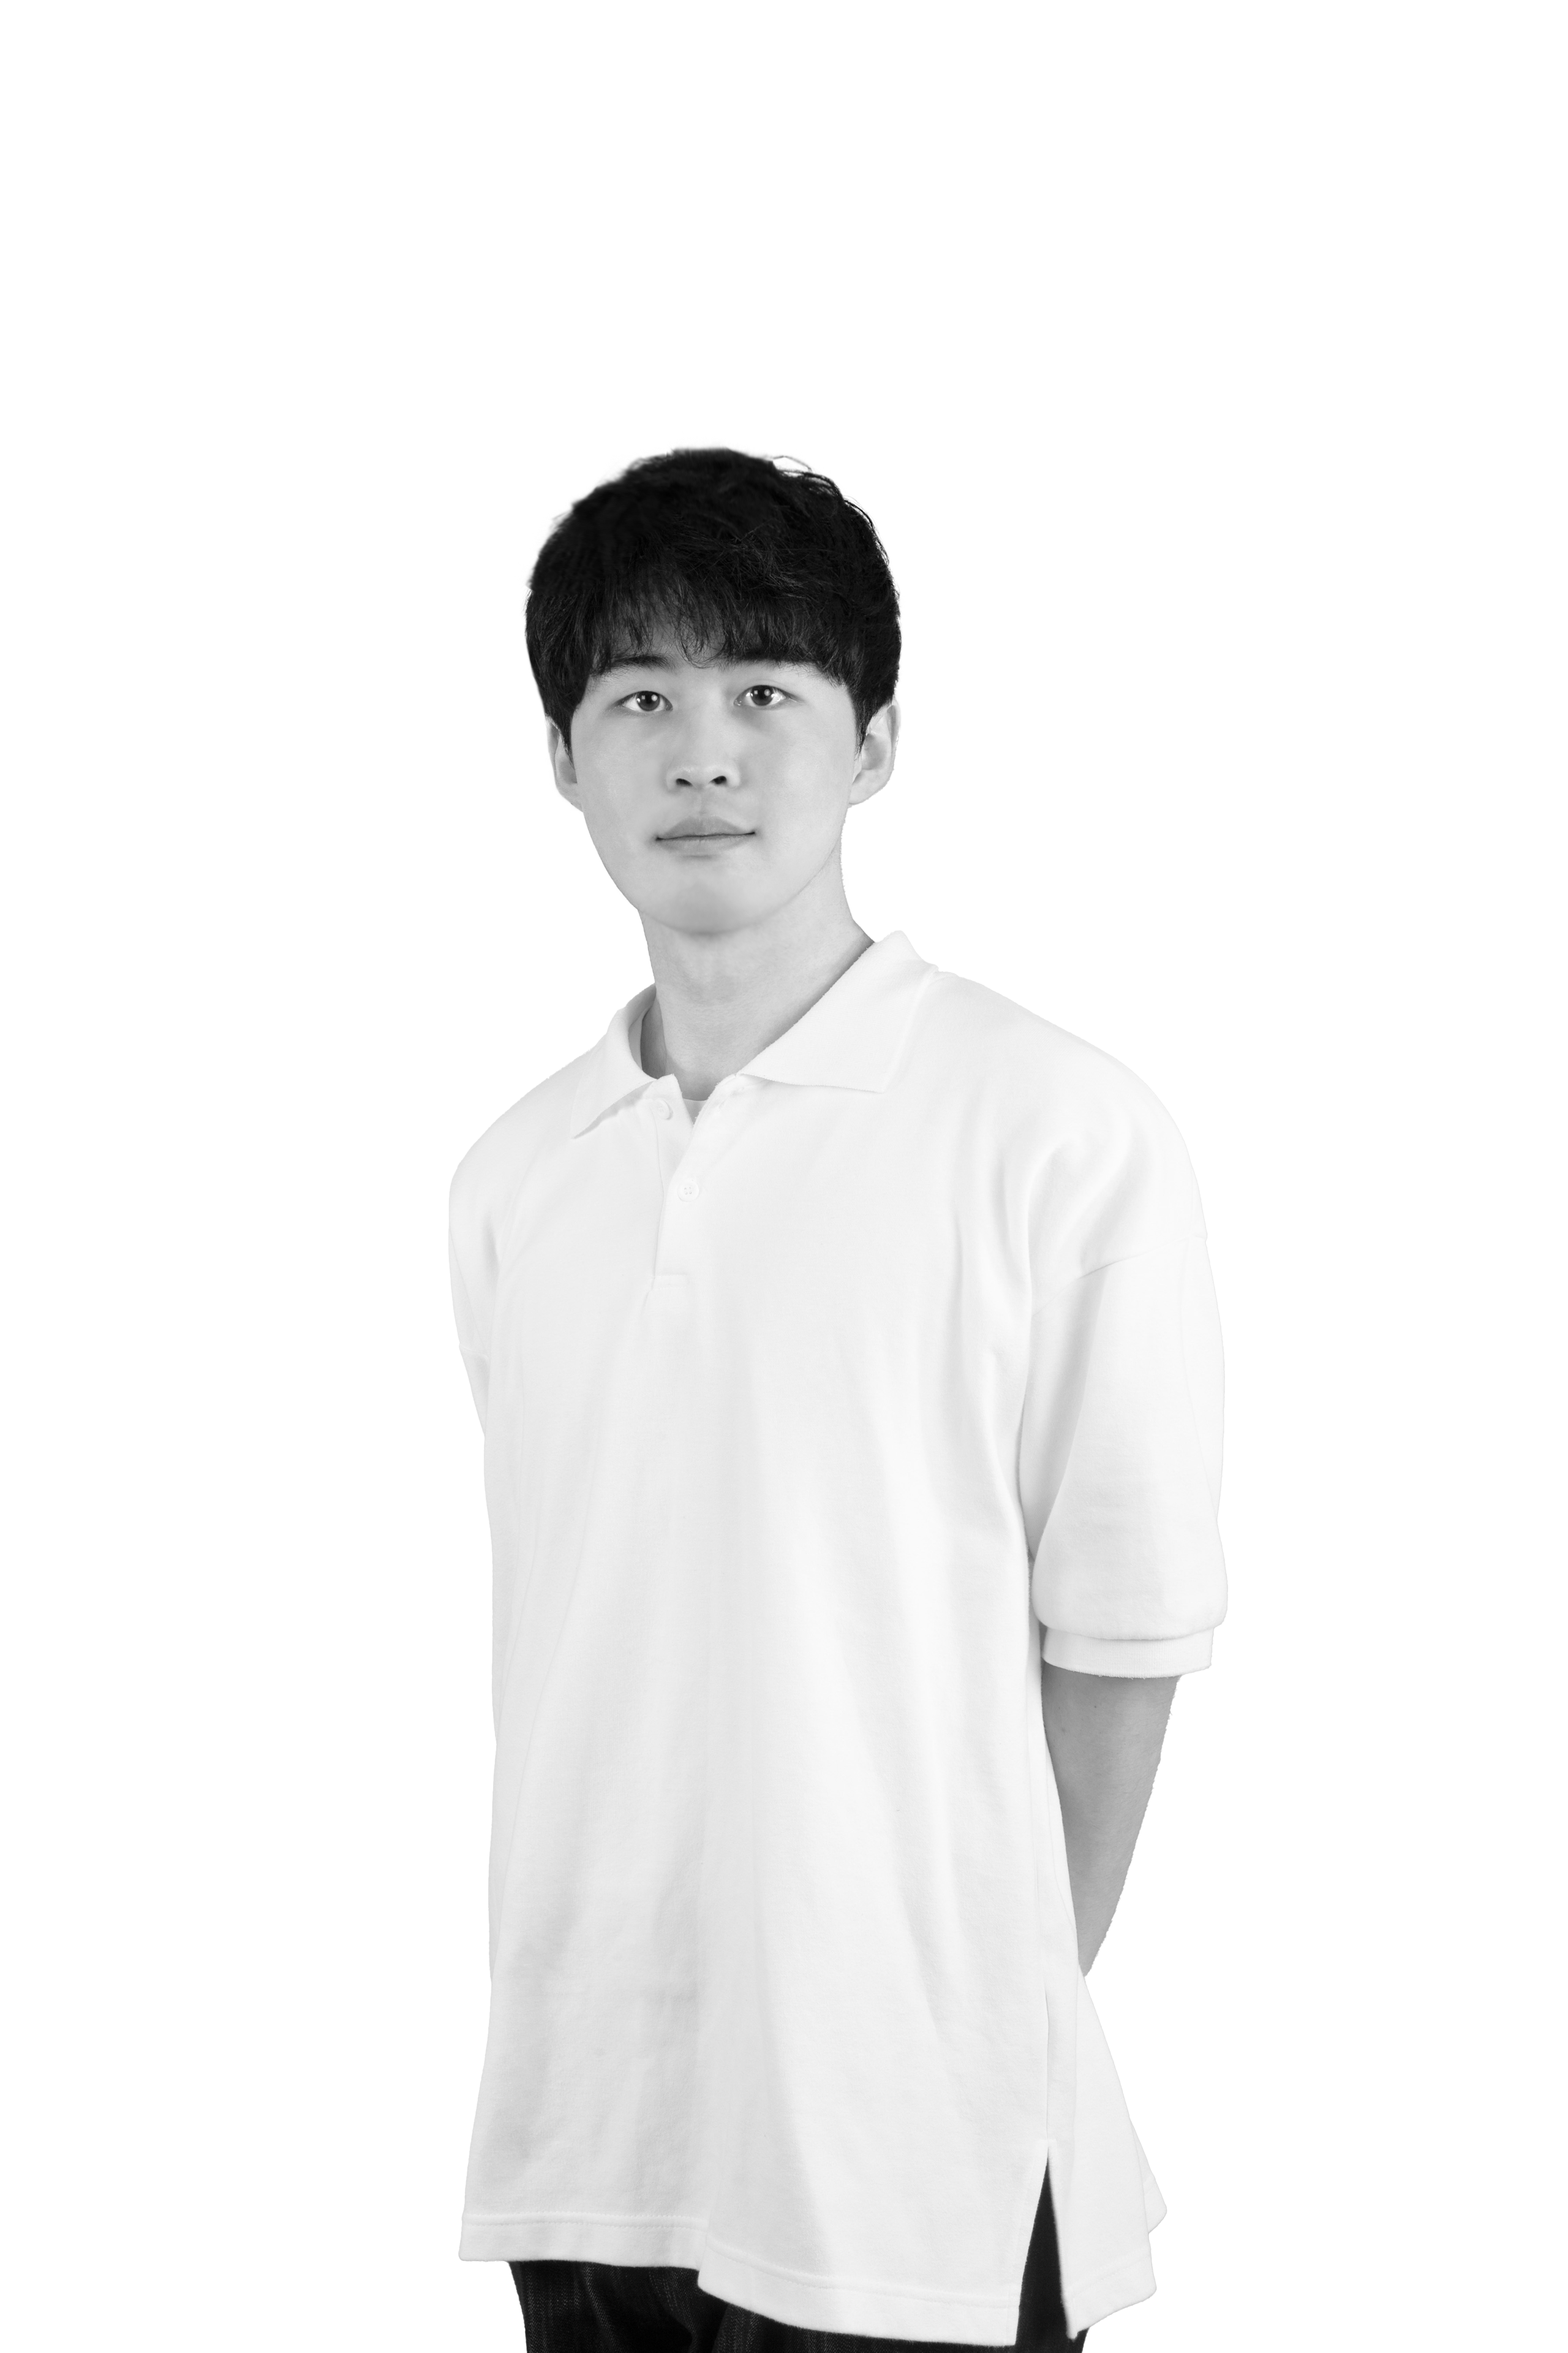
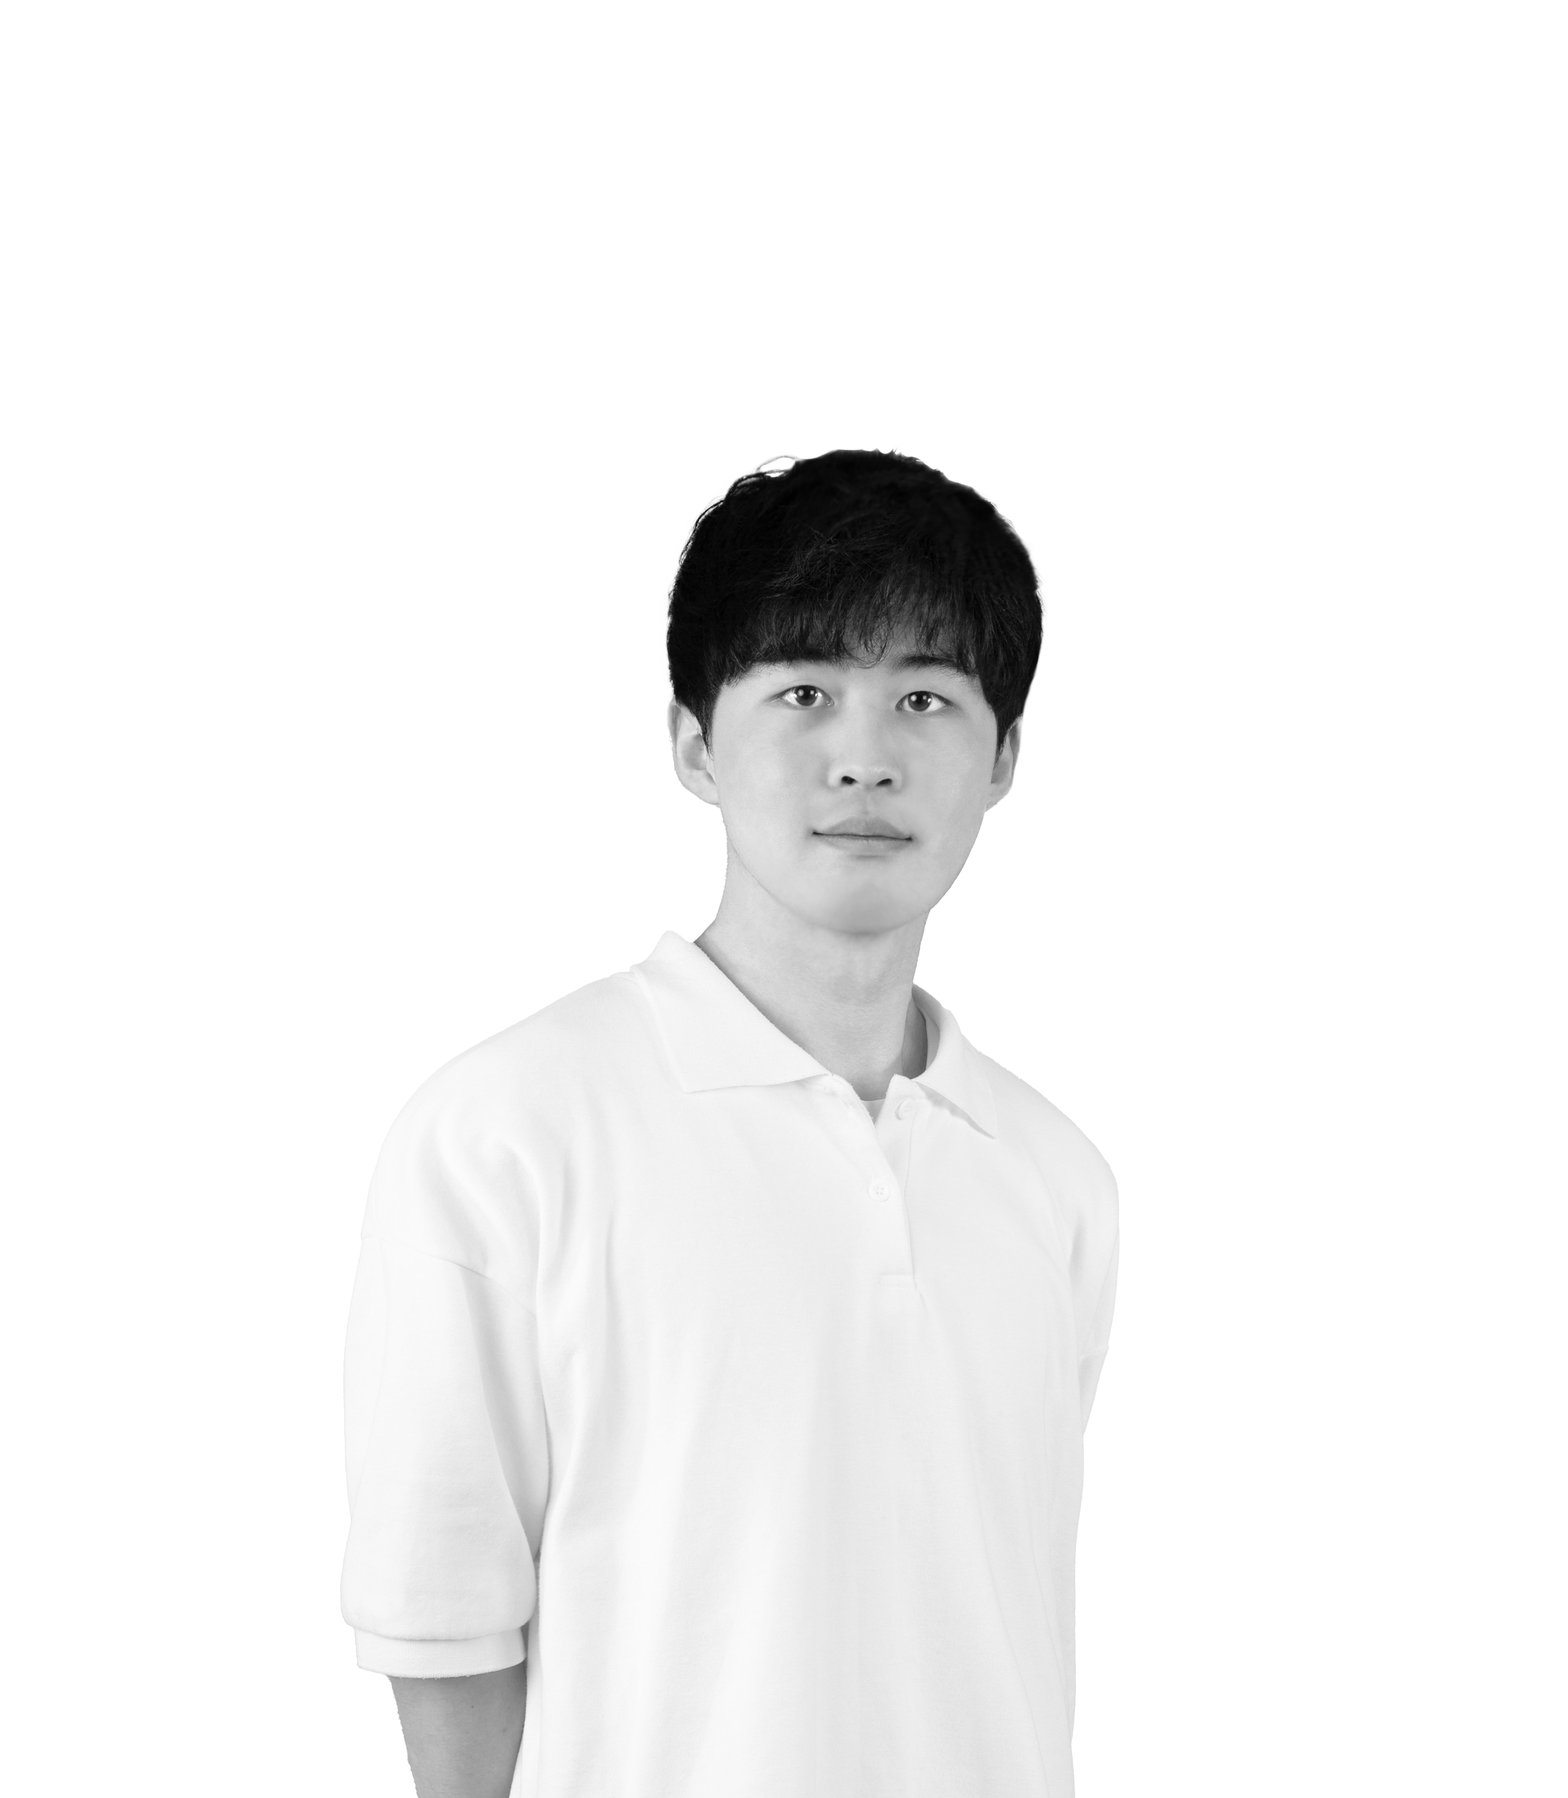
1118 Portfolio Update

diff --git a/src/pages/Home.jsx b/src/pages/Home.jsx
@@ -1,26 +1,23 @@
 import React from 'react'
 import styled from 'styled-components'
 import HomeBackground from '../components/HomeBackground'
-import ProfileImg from '../img/profileImage.png'
+import ProfileImage from '../img/profileImage.png'
 
 const Container = styled.div`
-position: relative;
+  position: relative;
   width: 100%;
   height: calc(100vh - 60px);
   display: flex;
   justify-content: center;
   align-items: center;
   flex-wrap: wrap;
-  & > img {
-    width:340px;
-  }
 `
 const GlassBoard = styled.div`
   position:absolute;
-  top:22vh;
-  right:24vw;
-  width:24vw;
-  height:32vh;
+  top:20vh;
+  right:380px;
+  width:640px;
+  height:380px;
   border-radius:25px;
   background: linear-gradient(135deg,rgba( 255, 255, 255, 0.3 ),rgba(0, 0, 0, 0.1) ) ;
   box-shadow: 0 6px 15px 0 rgba( 131, 174, 255, 0.2 );
@@ -29,14 +26,14 @@ const GlassBoard = styled.div`
   border: 1px solid rgba( 255, 255, 255, 0.1 );
   display:flex;
   justify-content: center;
-  align-items: center;
+  z-index:1;
 `
 const GlassBoardLeft = styled(GlassBoard)`
-  width:16vw;
-  height:17.5vh;
+  width:380px;
+  height:230px;
   top:25.5vh;
-  right:0vw;
-  left:16vw;
+  right:0px;
+  left:380px;
   border-radius:25px;
   background: linear-gradient(135deg,rgba( 255, 255, 255, 0.3 ),rgba(0, 0, 0, 0.1) ) ;
   box-shadow: 0 6px 15px 0 rgba( 131, 174, 255, 0.2 );
@@ -46,12 +43,28 @@ const GlassBoardLeft = styled(GlassBoard)`
 
 `
 
+const MyImage = styled.img`
+  position:absolute;
+  width:400px;
+  top:10vh;
+  left:30vw;
+  z-index:2;
+`
+
 const TextContainer = styled.div`
   display:flex;
   flex-direction:column;
+  padding:38px 48px;
 `
 const Name = styled.h2`
-
+font-size:68px;
+font-weight:bold;
+color:#fff;
+`
+const SubTitle = styled.h3`
+font-size:38px;
+font-weight:bold;
+color:#fff;
 `
 
 const Home = () => {
@@ -59,14 +72,14 @@ const Home = () => {
     <Container>
       <HomeBackground />
       <GlassBoardLeft />
-      <img src={ProfileImg} alt="Profile" />
+      <MyImage src={ProfileImage} alt='Profile Img' />
       <GlassBoard>
-        <div>
-          <h2>JI SEONG JUN</h2>
-          <h3>I'M FrontEnd Developer</h3>
+        <TextContainer>
+          <Name>JI SEONG JUN</Name>
+          <SubTitle>I'M FrontEnd Developer</SubTitle>
           <p>안녕하세요! 저는 인터랙티브한 애니메이션으로 매력적인 웹을 설계하는 프론트엔드 개발자가 되고싶은 지성준입니다. </p>
           <p>I USED HTML, CSS, Javascript ES6+, React.js, Next.js, Node.js, Figma, TypeScript  </p>
-        </div>
+        </TextContainer>
       </GlassBoard>
     </Container>
   )

diff --git a/src/components/HomeBackground.jsx b/src/components/HomeBackground.jsx
@@ -38,14 +38,14 @@ const HTMLDiv = styled.div`
 
 const CSSDiv = styled.div`
   position: absolute;
-  top: 45vh;
-  left: 24vw;
+  top: 49vh;
+  left: 25vw;
   background-color: #637ED8;
   color: white;
   width:208px;
   height:70px;
   padding-bottom: 6px;
-  rotate:-10deg;
+  rotate:-14deg;
   display:flex;
   justify-content: center;
   align-items: center;
